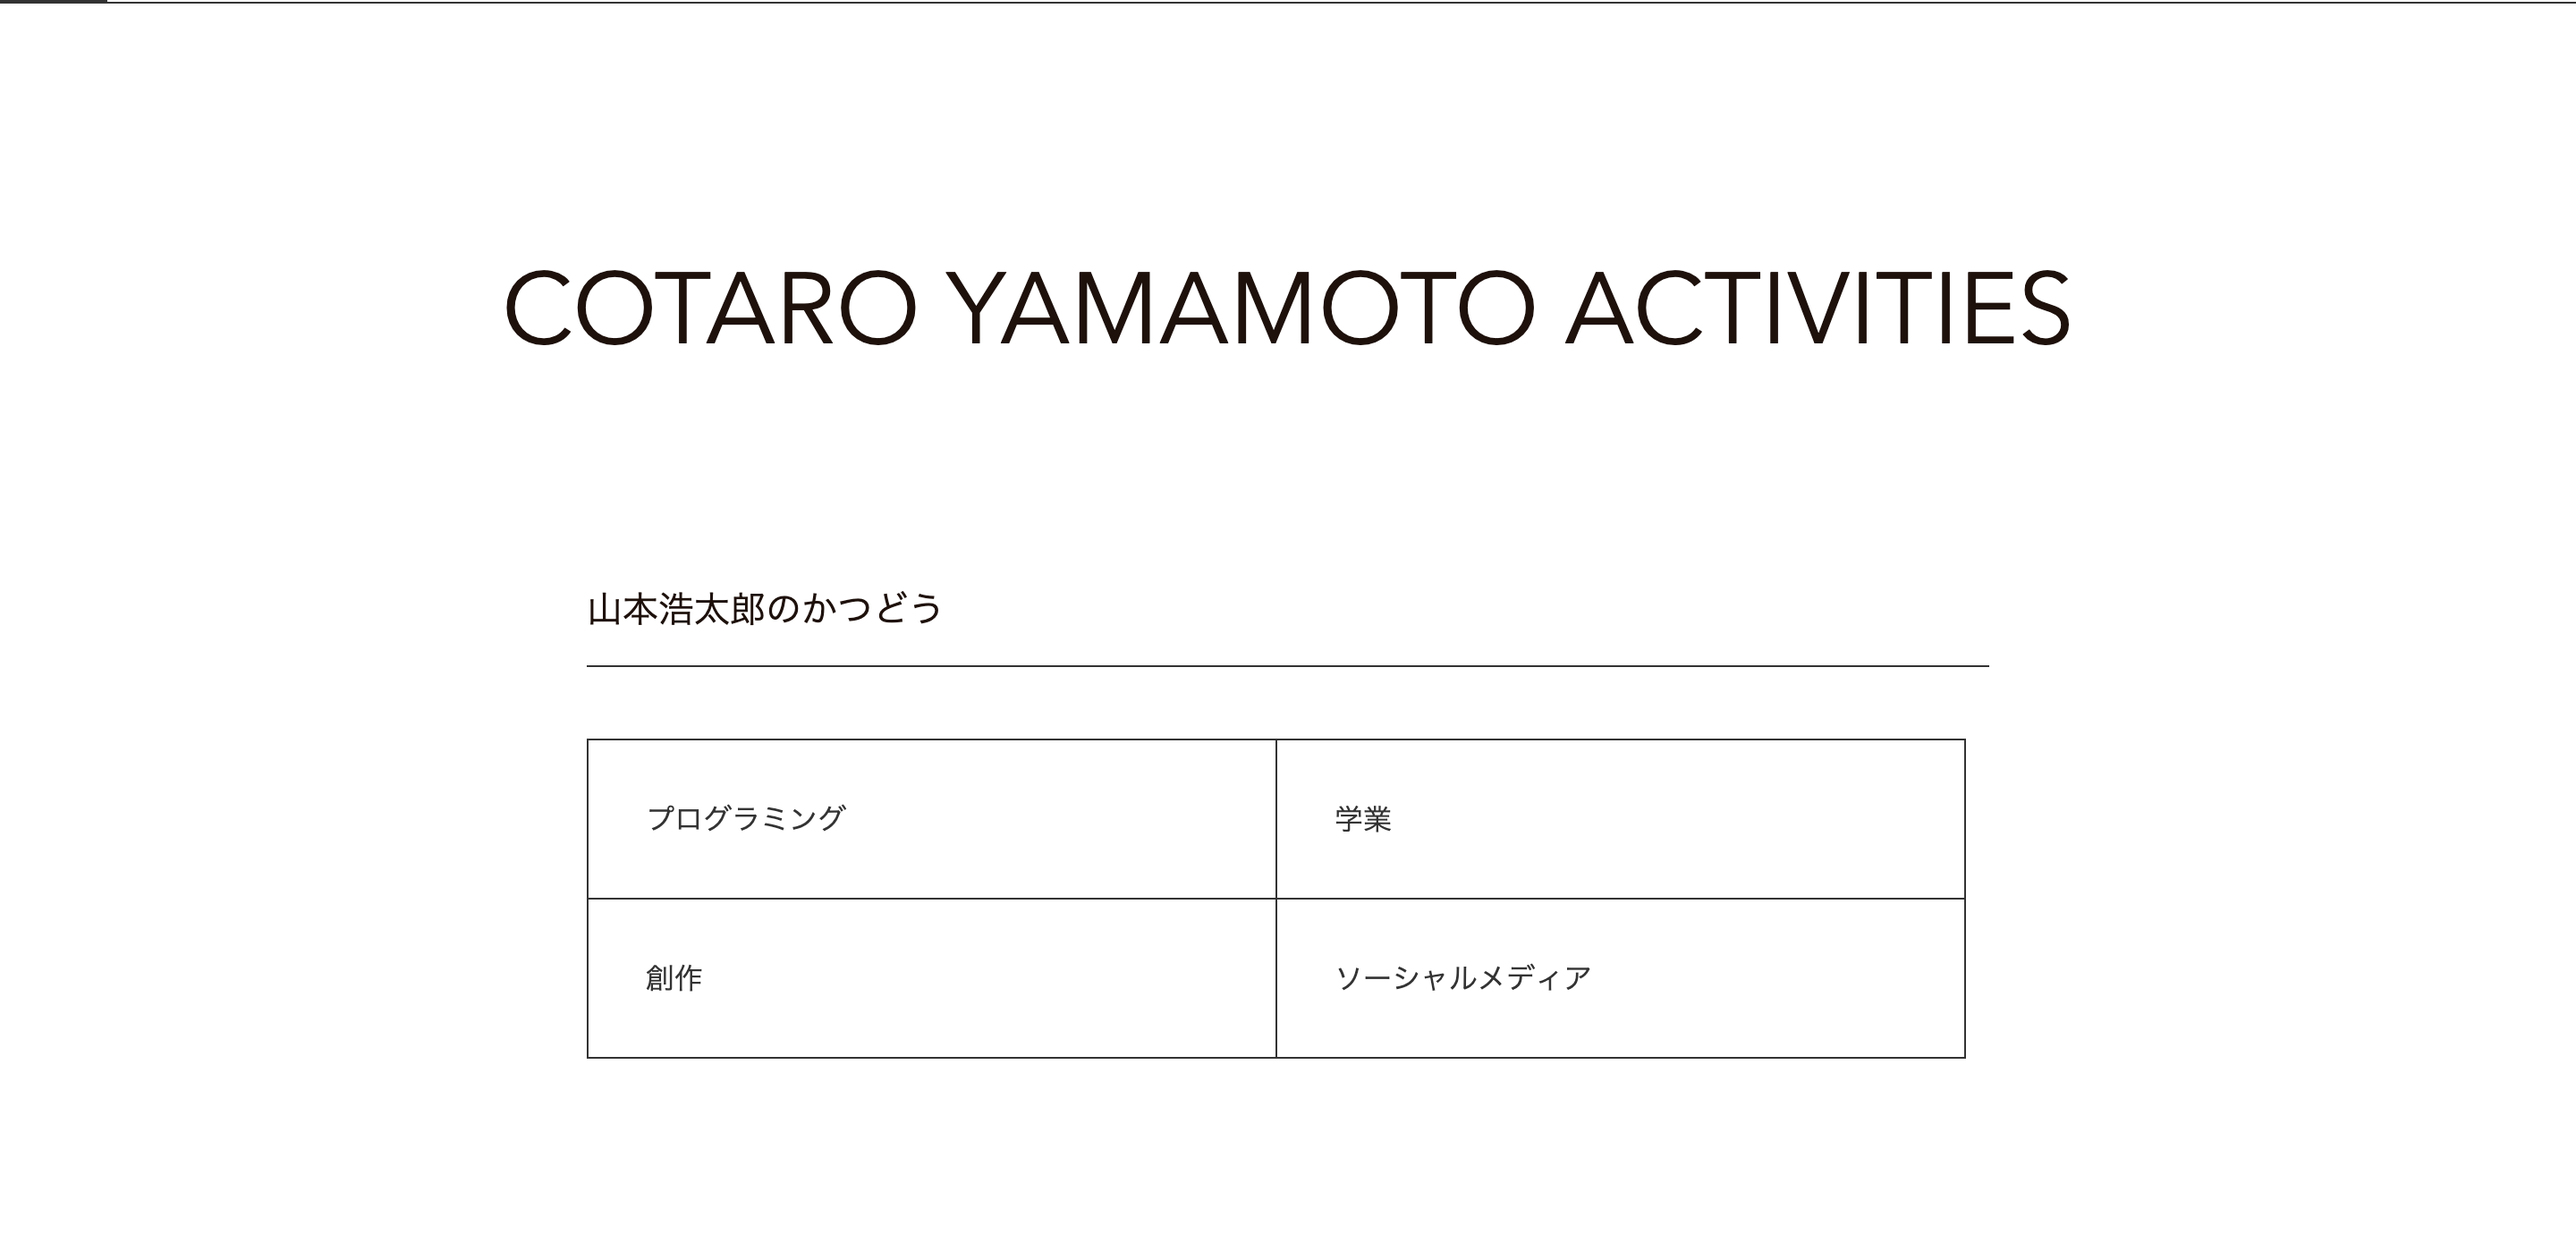
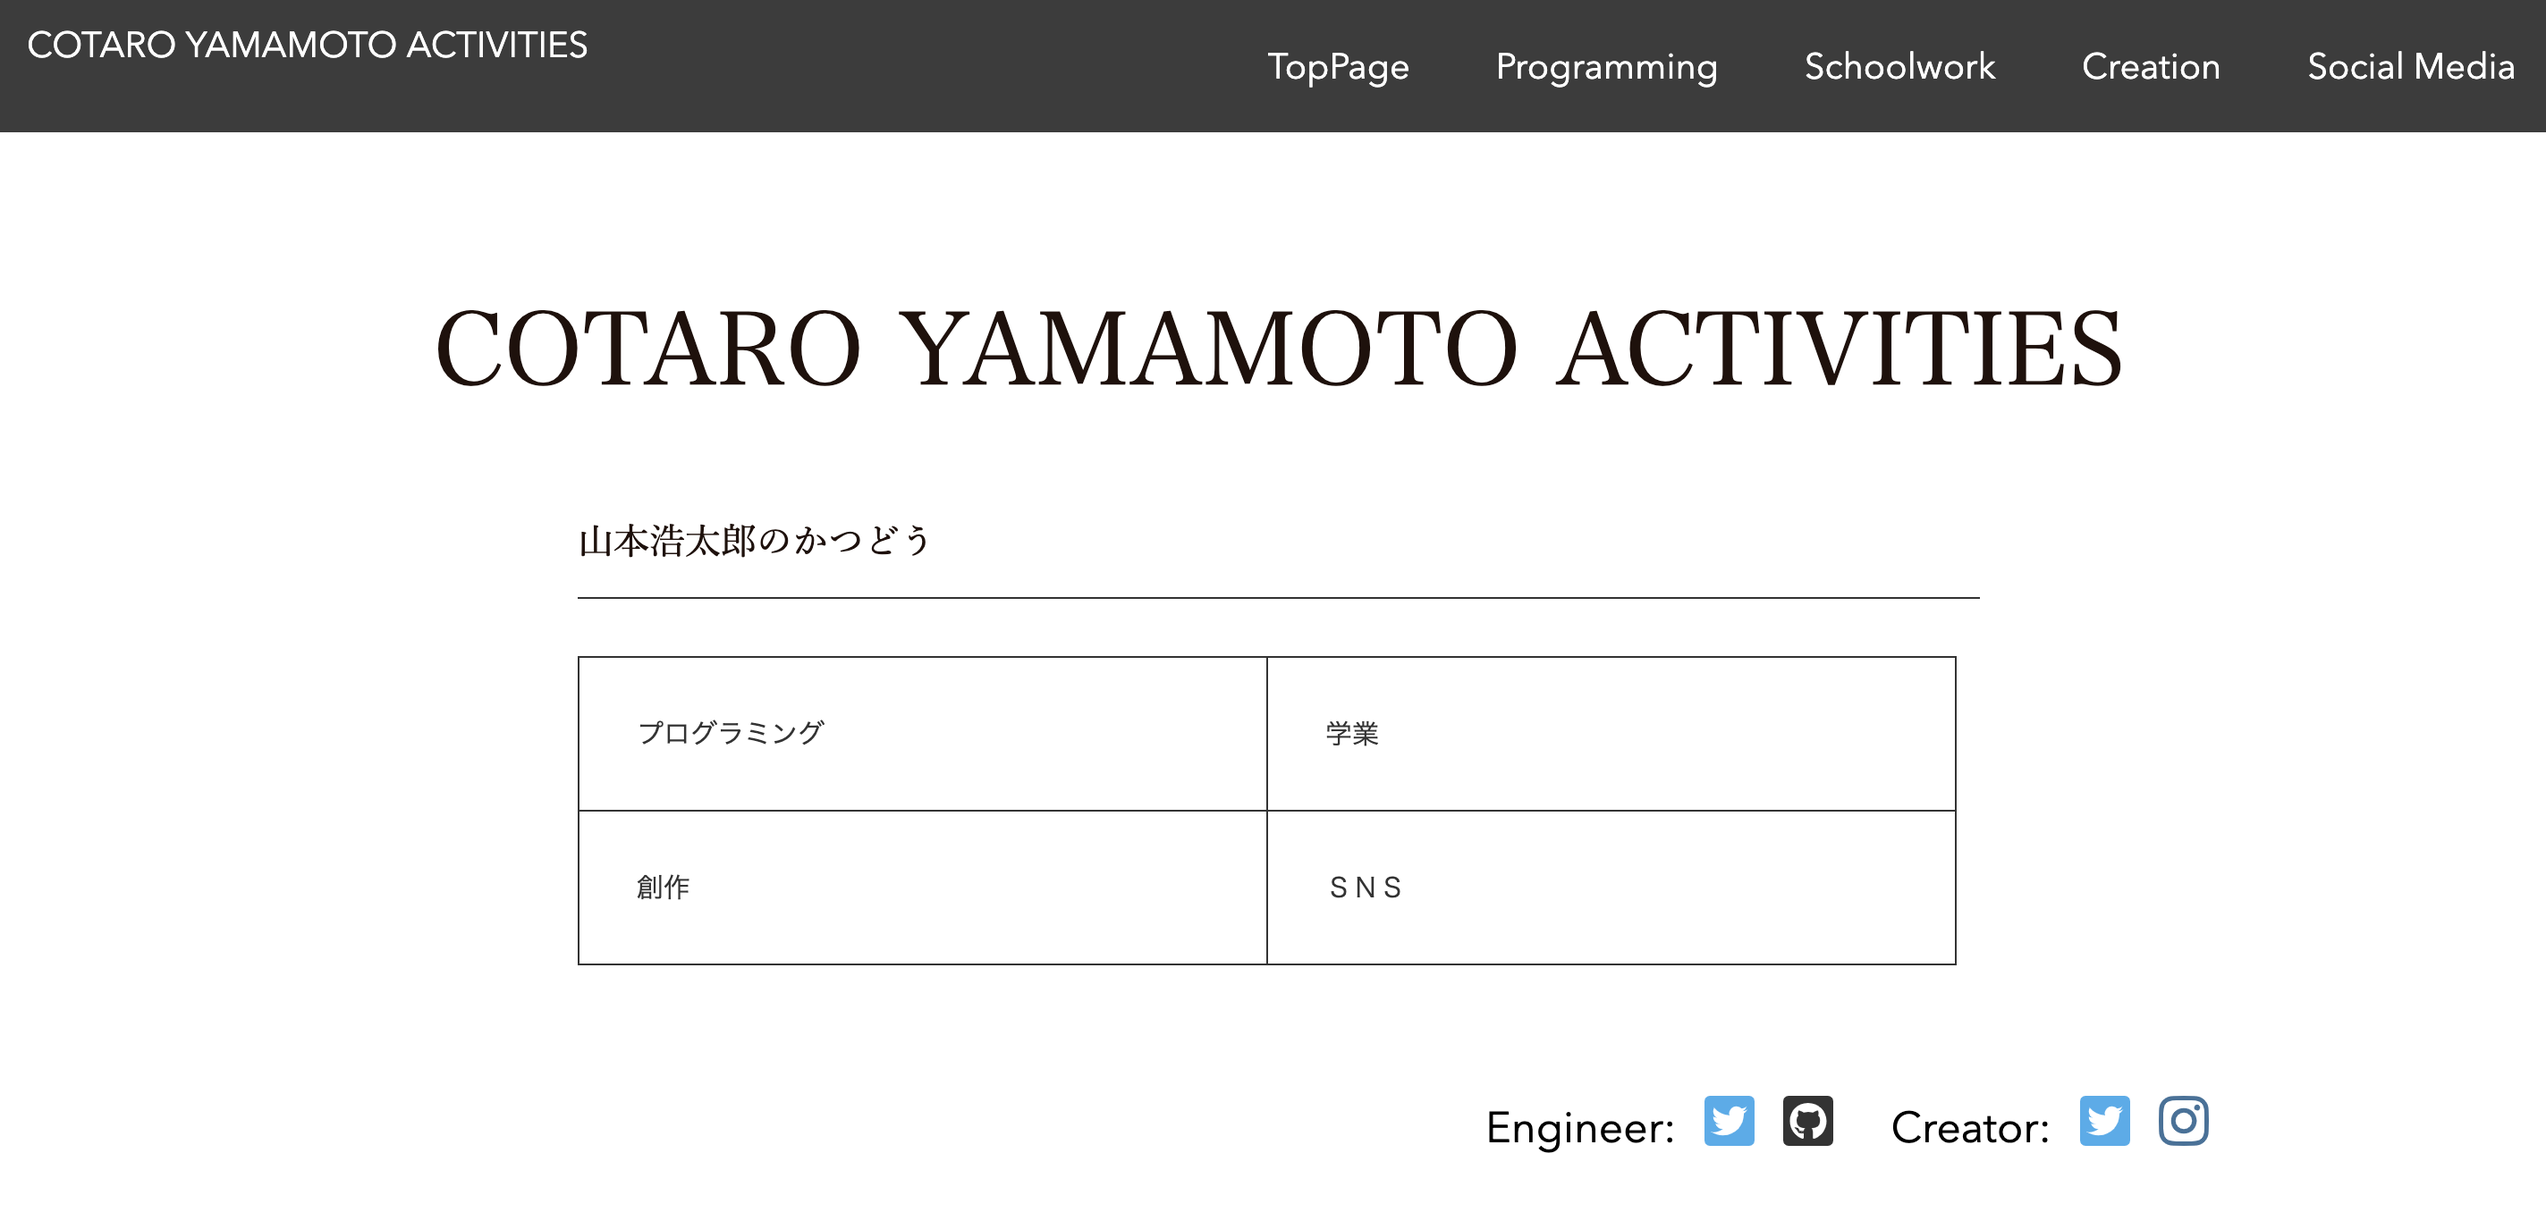
update desplay

diff --git a/src/index.css b/src/index.css
@@ -10,15 +10,17 @@ ul {
 }
 
 h1 {
-  font-family: "Avenir Next";
+  /* font-family: "Avenir Next"; */
+  font-family: 'Vollkorn', serif;
   font-size: 56px;
   font-weight: 400;
   color: #21100C;
   text-align: center;
+  margin: 16px auto;
 }
 
 h2, h3 {
-  font-family: "Lato";
+  font-family: 游明朝,"Yu Mincho",YuMincho,"Hiragino Mincho ProN","Hiragino Mincho Pro",HGS明朝E,メイリオ,Meiryo,serif;
   color: #21100C;
   font-weight: 300;
 }
@@ -32,7 +34,7 @@ h3 {
   font-size: 20px;
   border-bottom: 1px solid #333;
   line-height: 64px;
-  margin-bottom: 40px;
+  margin-bottom: 32px;
 }
 
 .header {
@@ -45,6 +47,10 @@ h3 {
   height: 48px;
   opacity: 0.96;
 }
+
+/* .header-logo{
+  font-family: 'Vollkorn', serif;
+} */
 
 /* .header-logo {
   height: 60px;
@@ -100,11 +106,11 @@ h3 {
 .main {
   max-width: 1040px;
   margin: 0 auto;
-  padding: 96px 0;
+  padding: 64px 0;
 }
 
 .lesson-container {
-  margin:96px 128px 0 128px;
+  margin:32px 128px 0 128px;
 }
 
 .lesson-card {
@@ -185,7 +191,7 @@ h3 {
 }
 
 .footer {
-  padding: 80px 0;
+  padding: 4px 0;
 }
 
 .footer-inner {
@@ -220,6 +226,11 @@ h3 {
   display: inline-block;
   padding-left: 16px;
   font-size: 32px;
+}
+
+.footer-list{
+  margin-top: 0;
+  margin-bottom: 32px;
 }
 
 .Activity-card{

diff --git a/src/Sns/Main.js b/src/Sns/Main.js
@@ -49,14 +49,14 @@ class Main extends React.Component {
     const ActivityList = [
       {
         name: 'エンジニア用アカウント',
-        englishName: 'As an Engineer',
+        englishName: 'As Engineer',
         image: AsEngineer,
         account:[{name: faTwitterSquare, url: 'https://twitter.com/creataro54',color: '#3eaded'},
                   {name: faGithubSquare, url: 'https://github.com/cotaroo',color: '#333'}]
       },
       {
         name: '創作用アカウント',
-        englishName: 'As an Creater',
+        englishName: 'As Creator',
         image: AsCreater,
         account:[{name: faTwitterSquare, url: 'https://twitter.com/Creataro1',color: '#3eaded'},
         {name: faInstagram, url: 'https://www.instagram.com/creataro54',color:'#3f729b'}]

diff --git a/src/Schoolwork/Main.js b/src/Schoolwork/Main.js
@@ -25,7 +25,7 @@ class Main extends React.Component {
   constructor(props) {
     super(props);
     this.state = {image: CasinoGame,
-                introduction: 'カジノゲームが遊べるコンソールアプリ<br>開発期間:2017/12 下旬~2018/1 上旬<br>Javaの授業で開発<br>グループ開発　担当：カジノゲーム,所持金管理' ,
+                introduction: 'カジノゲームが遊べるコンソールアプリ<br>開発期間:2017/12 下旬~2018/1 上旬<br>Javaの授業でグループで開発<br>担当：カジノゲーム、所持金管理機能' ,
                   isVisible: false
                 };
   }
